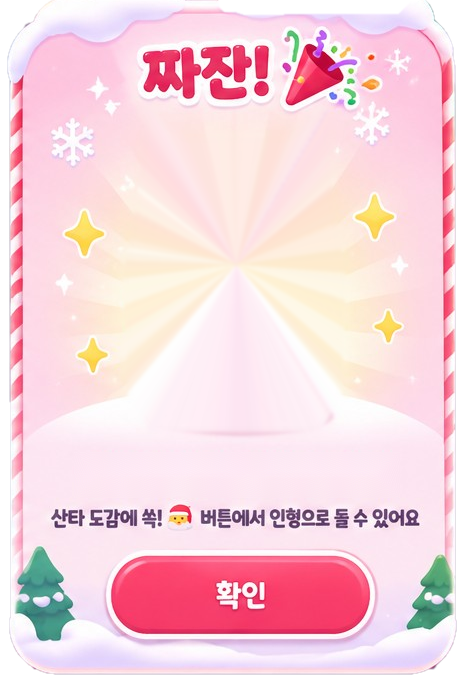
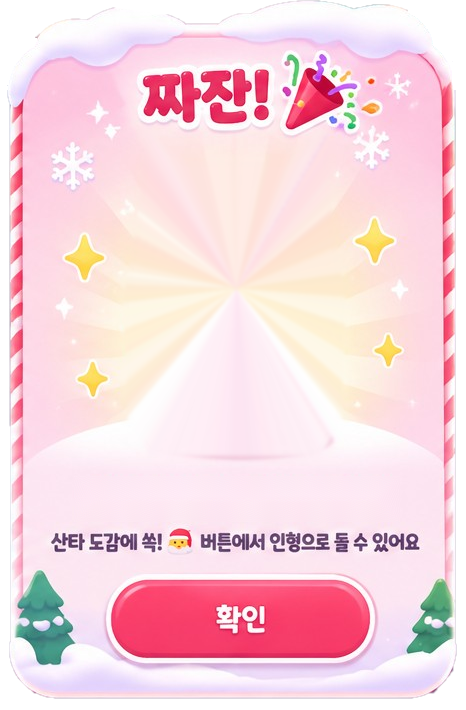
Santa popup: whole snow cap cut out, no dark strip on top (D-2046)

diff --git a/tools/art/santa_ui/build.py b/tools/art/santa_ui/build.py
@@ -7,7 +7,7 @@
 import cv2, numpy as np, sys, os
 src = cv2.imread(sys.argv[1]); d = sys.argv[2]; out = sys.argv[3]; os.makedirs(out, exist_ok=True)
 AX, AY = 4, 14       # album_cut origin in the mock-up
-PX, PY = 1064, 206   # popup_cut origin
+PX, PY = 1064, 182   # popup_cut origin
 
 def inpaint_text(img, rect, pred, grow=3, r=5):
     x0, y0, x1, y1 = rect
@@ -84,6 +84,12 @@ cv2.imwrite(os.path.join(out, 'card_today.png'), np.dstack([img, al]))
 
 # ---- popup
 p = cv2.imread(os.path.join(d, 'popup_cut.png'), cv2.IMREAD_UNCHANGED)
+# dark town bits left between the snow cap and the frame's top corners
+top = p[:90].astype(int); tb, tg, tr = top[..., 0], top[..., 1], top[..., 2]
+dark = (np.maximum(np.maximum(tr, tg), tb) < 190) & (tb > tr - 15)
+dark[:, 60:400] = False                                             # (only by the corners: the confetti stays)
+dark = cv2.dilate(dark.astype(np.uint8), np.ones((3, 3), np.uint8)) > 0
+p[:90, :, 3][dark] = 0
 def P(x, y): return x - PX, y - PY
 poly = [(1210, 312), (1250, 342), (1350, 342), (1392, 312), (1396, 400), (1410, 480), (1406, 600), (1384, 638), (1212, 638), (1190, 600), (1186, 480), (1200, 400)]
 m = np.zeros(p.shape[:2], np.uint8); cv2.fillPoly(m, [np.array([P(*q) for q in poly], np.int32)], 255)

diff --git a/tools/art/santa_ui/matte.py b/tools/art/santa_ui/matte.py
@@ -14,7 +14,7 @@ ALBUM = [  # rough outline, clockwise from the left top
 ]
 BGFIX = [(722, 168), (775, 148), (775, 172), (736, 188)]
 SPARK = [(632, 40), (660, 28), (692, 55), (680, 84), (650, 72)]
-POPUP = [(1072, 240), (1082, 222), (1110, 214), (1480, 214), (1512, 224), (1522, 250), (1522, 860), (1505, 882), (1090, 882), (1070, 860)]
+POPUP = [(1068, 250), (1074, 224), (1098, 206), (1140, 197), (1180, 199), (1215, 205), (1260, 206), (1300, 202), (1322, 195), (1350, 191), (1400, 192), (1450, 195), (1490, 198), (1514, 212), (1524, 240), (1524, 860), (1505, 882), (1090, 882), (1070, 860)]
 
 def cut(name, polys, box, band=10):
     poly_mask = np.zeros((H, W), np.uint8)
@@ -41,4 +41,4 @@ def cut(name, polys, box, band=10):
     return rgba[y0:y1, x0:x1]
 
 cut('album', [ALBUM, SPARK], (4, 14, 1056, 934))
-cut('popup', [POPUP], (1064, 206, 1530, 892), band=8)
+cut('popup', [POPUP], (1064, 182, 1530, 892), band=8)

diff --git a/docs/06_LOG/DECISIONS.md b/docs/06_LOG/DECISIONS.md
@@ -7062,3 +7062,6 @@ Studio only (no script yet).
 - tools/art/santa_ui/matte.py cuts the album and the popup off the mock-up's blurred town (GrabCut inside a hand-drawn band); build.py wipes the changing parts: album card area made see-through (the trees' green tips kept), hint line and count inpainted; one plain card (12/24) and today's card (12/23, red tag, pink edge, ! marks) cut with their text wiped; popup Santa wiped (the glow filled back along its rays) and its name line inpainted. Files: docs/04_ART/ui/santa/{mockup.jpg, album_frame.png 81903005894610, popup_frame.png 71419768973622, card.png 140016866546848, card_today.png 94855431064391}.
 - Game: design units = the pictures' pixels. Album: pale panel under the see-through area, 2 x 10 cards (9-slice card pictures) with dates (Fredoka One), the Santa picture (found) or a grey silhouette (black at 75 %), ??? / name, green ? for later days, "오늘!" red pill on today's, then the frame on top; count and hint at the mock-up's spots; clear buttons over the frame's ✕. Popup: the frame, the Santa picture bobbing on the snow hill, "<name>를 찾았어요!", a clear button over the frame's 확인. The black ? box still comes first. The title stays "미니 산타 찾기" after the event (it is the picture).
 - Play check (EventNow 12/23): docs/06_LOG/images/2026-11-22/santa_album_v3.jpg, santa_reveal_v3.jpg; the 오늘! badge made bigger after it.
+
+## D-2046 Santa popup: the whole snow cap cut out (2026-11-22)
+- User (phone screenshot): the popup's top was cut flat with a dark strip of the town above the snow. matte.py's popup outline now follows the snow bumps (crop from y 182), build.py clears the dark town bits by the top corners only (the confetti stays). popup_frame.png = 120424630359533, 466 x 710; SantaUi's popup spots moved down 24.
